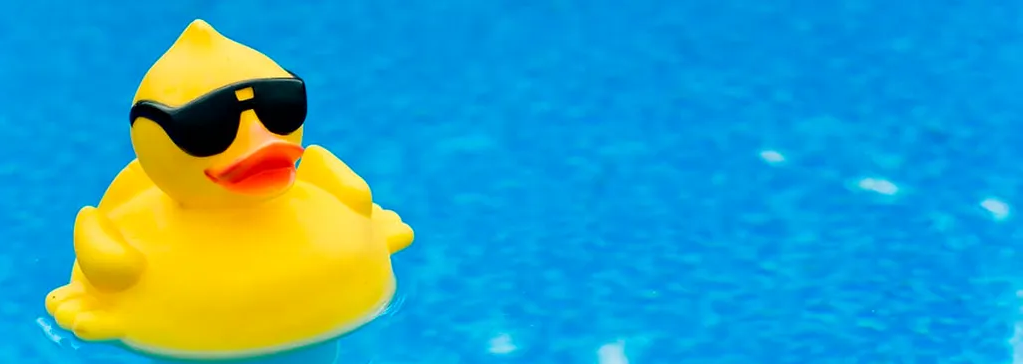
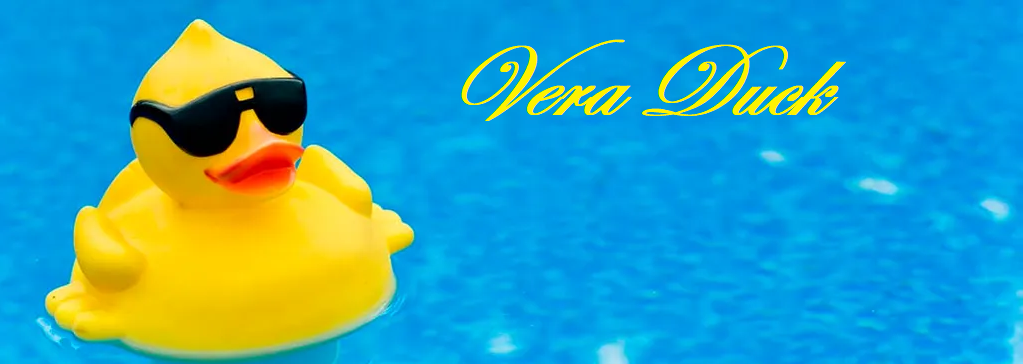
End of Class 10/3/22
- I did a lot, don't know what though

Changed region(s): [[0.4242, 0.0907, 0.8182, 0.3324], [0.8182, 0.1511, 0.8485, 0.1813]]

diff --git a/page3.html b/page3.html
@@ -12,5 +12,31 @@
         <li><a href="page2.html">Page 2</a></li>
         <li><a href="page3.html">Page 3</a></li>
     </ul>
+
+    <ul class = "navi">
+        <li><a href="index.html">Home</a></li>
+        <li><a href="page2.html">Page 2</a></li>
+        <li><a href="page3.html">Page 3</a></li>
+    </ul>
+
+    <ul class="Shop">
+        <li>
+            <img src="Images/birthday.jfif" alt=""></img>
+            <p>Birthday Duck</p>
+        </li>
+        <li>
+            <img src="Images/marriage.jfif" alt=""></img>
+            <p>Wedding Ducks</p>
+        </li>
+        <li>
+            <img src="Images/pumpkin.jfif" alt=""></img>
+            <p>Pumpkin Duck</p>
+        </li>
+        <li>
+            <img src="Images/santa.jfif" alt=""></img>
+            <p>Santa Duck</p>
+        </li>
+    </ul>
+    
 </body>
 </html>

diff --git a/page1.html b/page1.html
@@ -8,9 +8,28 @@
 <body>
     
     <ul class = "navi">
-        <li><a href="page1.html">Page 1</a></li>
+        <li><a href="index.html">Home</a></li>
         <li><a href="page2.html">Page 2</a></li>
         <li><a href="page3.html">Page 3</a></li>
+    </ul>
+
+    <ul class="Shop">
+        <li>
+            <img src="Images/baseball.jfif" alt=""></img>
+            <p>Baseball Duck</p>
+        </li>
+        <li>
+            <img src="Images/basketball.jfif" alt=""></img>
+            <p>Basketball Duck</p>
+        </li>
+        <li>
+            <img src="Images/football.jfif" alt=""></img>
+            <p>Football Duck</p>
+        </li>
+        <li>
+            <img src="Images/golf.jfif" alt=""></img>
+            <p>Golf Duck</p>
+        </li>
     </ul>
 </body>
 </html>

diff --git a/styles.css b/styles.css
@@ -1,38 +1,24 @@
 body{
     background-color: rgb(255, 251, 0);
-    
+    text-align: center;
 }
 
-div{
-    display: inline-block;
-    width: 100vw;
-    height: 35.6vw;
-
-    border: 5px dashed;
-    border-color: rgb(0,153,255);
-    
-    background-image: url(Images/duck1.png);
-    background-image: contain;
-    background-repeat: no-repeat;
-    background-size: 100vw;
-    width: 100vw;
-
+.Header{
     font-size: 400%;
     font-family: 'Script MT';
     text-align: right;
     padding-right: 40%;
-}
-div>img{
-    border: aqua dashed inset;
-}
 
-div>h1{
     margin-top: 0%;
     margin-bottom: 0%;
     color: rgb(224, 221, 0);
 }
 
-img{
+.Shop{
+    list-style: none;
+}
+
+.MainImg{
     display: inline-block;
     width: 100%;
     max-height: 30vmax;

diff --git a/page2.html b/page2.html
@@ -12,5 +12,24 @@
         <li><a href="page2.html">Page 2</a></li>
         <li><a href="page3.html">Page 3</a></li>
     </ul>
+
+    <ul class="Shop">
+        <li>
+            <img src="Images/harry.jfif" alt=""></img>
+            <p>Harry Potter Duck</p>
+        </li>
+        <li>
+            <img src="Images/liberty.jfif" alt=""></img>
+            <p>Statue of Liberty Duck</p>
+        </li>
+        <li>
+            <img src="Images/duckybowie.jfif" alt=""></img>
+            <p>David Bowie Duck</p>
+        </li>
+        <li>
+            <img src="Images/sherlock.jfif" alt=""></img>
+            <p>Sherlock Holmes Duck</p>
+        </li>
+    </ul>
 </body>
 </html>

diff --git a/index.html b/index.html
@@ -5,6 +5,9 @@
 
     <link rel="stylesheet" href="styles.css">
 </head>
+
+
+
 <body>
     <ul class = "navi">
         <li><a href="page1.html">Sports Ducks</a></li>
@@ -12,19 +15,7 @@
         <li><a href="page3.html">Occasion Ducks</a></li>
     </ul>
 
-    
-
-    <div>
-        <br>
-        <h1>
-            Vera
-        </h1>
-        <h1 style="text-indent: 75%;">
-            Duck
-            <br>
-            <br>
-        </h1>
-    </div>
+    <img class = "MainImg" src="Images/duck1.png" alt="A cool duck">
 
     <h1>Vera Duck - Designer Rubber Ducks</h1>
     <h2>Our Mission</h2>
